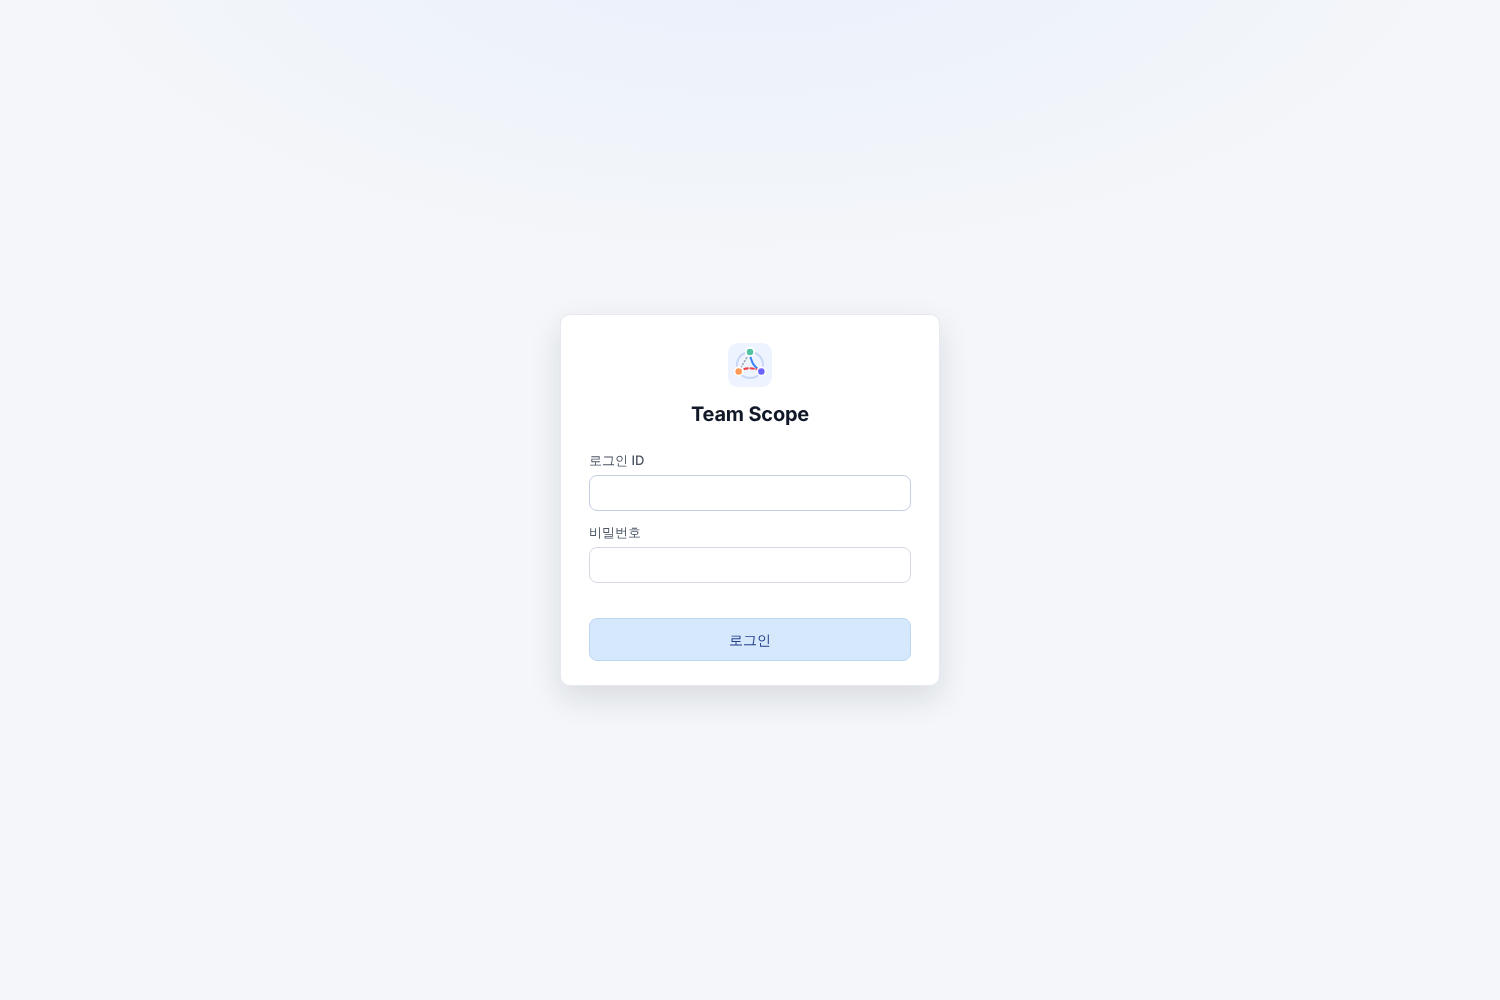
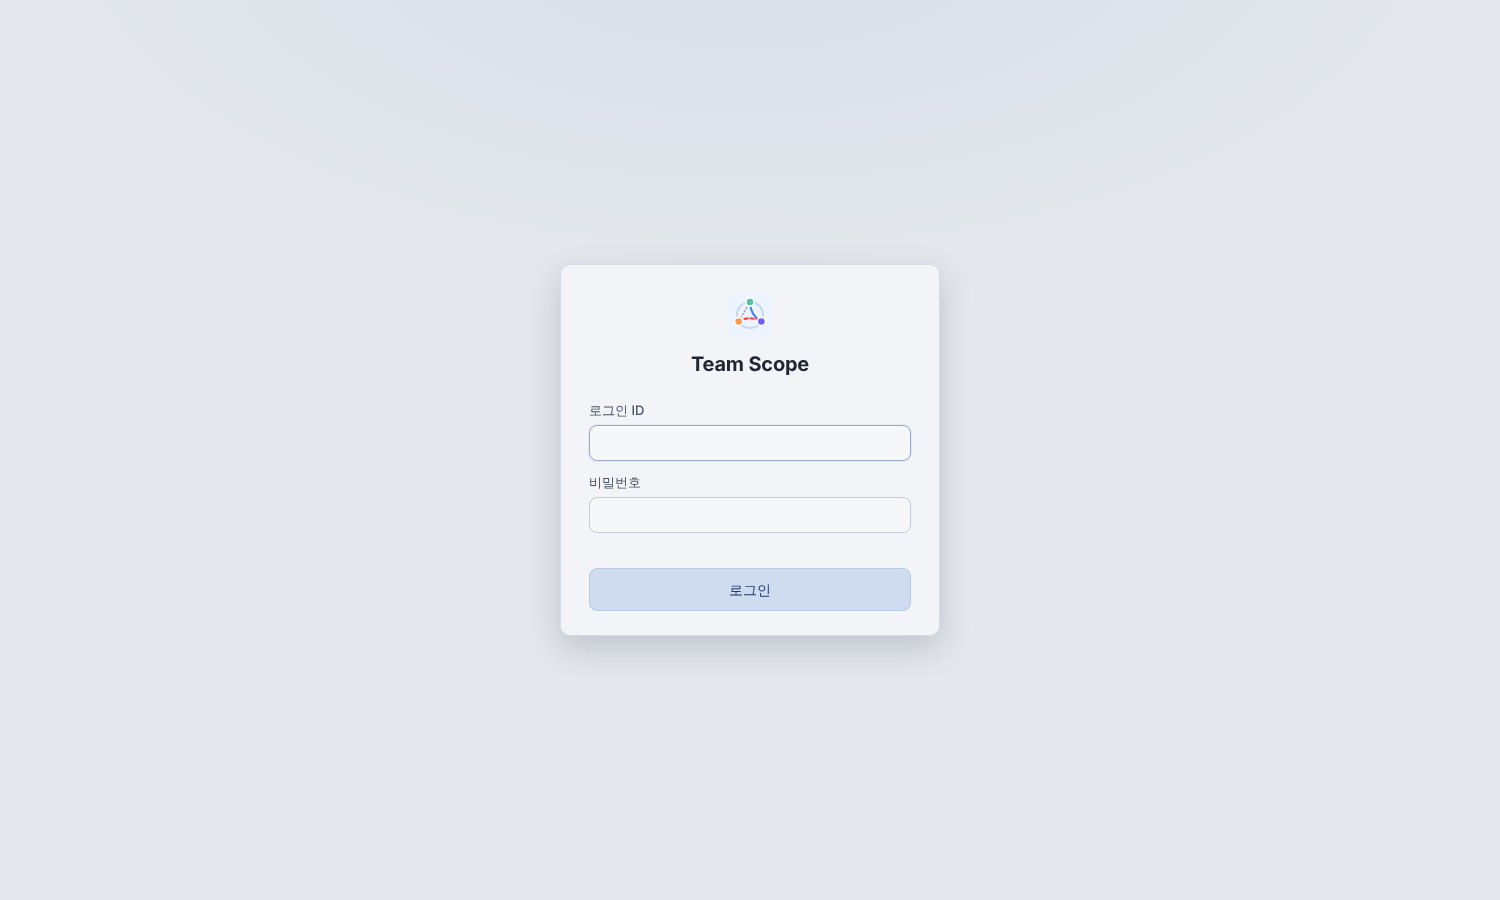
Calm light theme: no pure-white surfaces, dark slate header
- Gray-blue background, off-white cards and inputs instead of #fff, softer
  borders and row lines, muted blue accent and buttons
- Header and tab bar in dark slate with light text to cut glare at the top
- Hardcoded whites replaced by theme tokens; screenshots refreshed

Claude-Session: https://claude.ai/code/session_01DsfKjRFUmAajqSco24Yp3e

diff --git a/public/style.css b/public/style.css
@@ -1,31 +1,42 @@
 /* ==========================================================================
-   Team Scope — 테마
-   중립 회색 바탕 + 흰 카드, 파스텔 액센트, 8/10px 모서리, 옅은 그림자
+   Team Scope — 테마 (차분한 라이트)
+   눈부심을 줄이도록 순백 대신 회청색 계열 표면, 짙은 슬레이트 헤더,
+   채도를 낮춘 파랑 액센트, 낮은 대비의 경계선과 옅은 그림자
    ========================================================================== */
 :root {
-  /* 바탕·표면 */
-  --bg: #f4f6f9;
-  --panel: #ffffff;
-  --surface-2: #f8f9fb;
-  --border: #e6e9ef;
-  --border-strong: #d4d9e2;
+  /* 바탕·표면 (순백을 쓰지 않음) */
+  --bg: #e4e8ed;
+  --panel: #f2f4f7;
+  --surface-2: #e9edf2;
+  --input-bg: #f5f7f9;
+  --row-line: #e1e5eb;
+  --row-hover: #eaeef3;
+  --border: #d6dce4;
+  --border-strong: #c3cbd6;
   /* 글자 */
-  --text: #111827;
-  --text-2: #4b5563;
-  --muted: #8a919e;
+  --text: #1f2733;
+  --text-2: #475263;
+  --muted: #7a8494;
+  /* 헤더·탭 (짙은 슬레이트) */
+  --header-bg: #2a3340;
+  --tabs-bg: #323c4b;
+  --header-text: #e7ebf1;
+  --header-muted: #a3adbd;
+  --header-line: #3d4858;
+  --header-accent: #9db8ec;
   /* 액센트 (포커스·활성 표시) */
-  --accent: #4f7cf0;
-  --accent-soft: #eaf1fe;
-  --accent-ring: rgba(79, 124, 240, .18);
-  /* 버튼 (파스텔) */
-  --primary: #d6e8fb;
-  --primary-border: #bcd7f5;
-  --primary-hover: #c5ddf8;
-  --primary-text: #1e3a8a;
-  --danger: #fde4e4;
-  --danger-border: #f8c8c8;
-  --danger-hover: #fbd3d3;
-  --danger-text: #991b1b;
+  --accent: #4a6db8;
+  --accent-soft: #dde5f2;
+  --accent-ring: rgba(74, 109, 184, .2);
+  /* 버튼 (차분한 파스텔) */
+  --primary: #cfdbee;
+  --primary-border: #b7c8e3;
+  --primary-hover: #c1d1ea;
+  --primary-text: #22396b;
+  --danger: #f3dcdc;
+  --danger-border: #e6c3c3;
+  --danger-hover: #ecd0d0;
+  --danger-text: #8a2323;
   /* 관계 상태 */
   --private: #3B82F6;
   --public: #9CA3AF;
@@ -33,8 +44,8 @@
   /* 기타 */
   --radius: 10px;
   --radius-sm: 8px;
-  --shadow: 0 1px 2px rgba(16, 24, 40, .04), 0 1px 3px rgba(16, 24, 40, .03);
-  --shadow-lg: 0 12px 32px rgba(16, 24, 40, .12);
+  --shadow: 0 1px 2px rgba(23, 31, 43, .05), 0 1px 3px rgba(23, 31, 43, .04);
+  --shadow-lg: 0 12px 32px rgba(23, 31, 43, .18);
   --header-h: 60px;
   --tabs-h: 44px;
 }
@@ -62,7 +73,7 @@ code { font-family: ui-monospace, SFMono-Regular, Menlo, Consolas, monospace; }
 .muted { color: var(--muted); }
 .hint { color: var(--muted); font-size: 12px; margin: 4px 0 10px; line-height: 1.55; }
 .warn { color: #b45309; font-size: 13px; }
-.warn-box { margin: 0; padding: 10px 14px; border-radius: var(--radius-sm); background: #fff8eb; border: 1px solid #fde7bd; color: #92400e; font-size: 13px; }
+.warn-box { margin: 0; padding: 10px 14px; border-radius: var(--radius-sm); background: #f3ead8; border: 1px solid #e6d3ad; color: #92400e; font-size: 13px; }
 .form-error { color: #b91c1c; min-height: 1.2em; font-size: 13px; }
 .sr-only { position: absolute; width: 1px; height: 1px; overflow: hidden; clip: rect(0 0 0 0); white-space: nowrap; }
 .spacer { flex: 1; }
@@ -81,7 +92,7 @@ label { display: flex; flex-direction: column; gap: 5px; margin-bottom: 12px; co
 label.check { flex-direction: row; align-items: center; gap: 8px; font-weight: 400; }
 input, select, textarea {
   font: inherit; color: var(--text);
-  border: 1px solid var(--border-strong); border-radius: var(--radius-sm); padding: 7px 10px; background: #fff;
+  border: 1px solid var(--border-strong); border-radius: var(--radius-sm); padding: 7px 10px; background: var(--input-bg);
   transition: border-color .15s, box-shadow .15s;
 }
 input:hover, select:hover, textarea:hover { border-color: #c2c8d2; }
@@ -94,7 +105,7 @@ button:focus-visible, .select-list li:focus-visible, .tab:focus-visible, .subtab
 }
 
 .btn {
-  font: inherit; font-weight: 500; cursor: pointer; border: 1px solid var(--border-strong); background: #fff; color: var(--text);
+  font: inherit; font-weight: 500; cursor: pointer; border: 1px solid var(--border-strong); background: var(--input-bg); color: var(--text);
   border-radius: var(--radius-sm); padding: 7px 14px; white-space: nowrap;
   display: inline-flex; align-items: center; justify-content: center; transition: background .15s, border-color .15s;
 }
@@ -123,7 +134,7 @@ button:focus-visible, .select-list li:focus-visible, .tab:focus-visible, .subtab
 /* 로그인 등 중앙 화면 */
 .center-view {
   min-height: 100vh; display: flex; align-items: center; justify-content: center; padding: 16px;
-  background: radial-gradient(1200px 600px at 50% -10%, #e8effc 0%, var(--bg) 60%);
+  background: radial-gradient(1200px 600px at 50% -10%, #d5dde9 0%, var(--bg) 60%);
 }
 .auth-card { width: 100%; max-width: 380px; padding: 28px 28px 24px; box-shadow: var(--shadow-lg); }
 .auth-card .app-title { font-size: 20px; text-align: center; margin-bottom: 22px; justify-content: center; }
@@ -136,28 +147,33 @@ button:focus-visible, .select-list li:focus-visible, .tab:focus-visible, .subtab
 /* 헤더·탭 */
 .app-header {
   height: var(--header-h); display: flex; align-items: center; justify-content: space-between; gap: 12px;
-  padding: 0 max(6vw, 16px); background: var(--panel); border-bottom: 1px solid var(--border);
-  position: relative; z-index: 2;
+  padding: 0 max(6vw, 16px); background: var(--header-bg); border-bottom: 1px solid var(--header-line);
+  position: relative; z-index: 2; color: var(--header-text);
 }
 .header-left, .header-right { display: flex; align-items: center; gap: 10px; min-width: 0; }
 .app-title { display: flex; align-items: center; gap: 8px; }
-.app-header .app-title { font-size: 16px; font-weight: 700; margin: 0; white-space: nowrap; }
+.app-header .app-title { font-size: 16px; font-weight: 700; margin: 0; white-space: nowrap; color: var(--header-text); }
+.app-header .app-version { color: var(--header-muted); }
+.app-header select { background-color: #3a4556; color: var(--header-text); border-color: #4a5668; }
+.app-header select:hover { border-color: #5b6880; }
+.app-header .btn-ghost { color: var(--header-muted); }
+.app-header .btn-ghost:hover:not(:disabled) { background: #36414f; border-color: #46526366; color: var(--header-text); }
 .brand-icon { display: block; }
 .app-version { font-size: 11px; font-weight: 500; color: var(--muted); margin-left: 2px; align-self: flex-end; padding-bottom: 2px; }
 #team-select { font-weight: 600; min-width: 140px; }
-.team-fixed { font-weight: 600; color: var(--text-2); padding: 4px 10px; background: var(--surface-2); border: 1px solid var(--border); border-radius: 999px; }
-.user-label { color: var(--text-2); white-space: nowrap; font-size: 13px; padding-right: 4px; }
-.save-status { font-size: 12px; color: var(--muted); }
-.save-status.error { color: #b91c1c; }
+.team-fixed { font-weight: 600; color: var(--header-text); padding: 4px 10px; background: #3a4556; border: 1px solid #4a5668; border-radius: 999px; }
+.user-label { color: var(--header-muted); white-space: nowrap; font-size: 13px; padding-right: 4px; }
+.save-status { font-size: 12px; color: var(--header-muted); }
+.save-status.error { color: #f3a5a5; }
 
-.tabs { height: var(--tabs-h); display: flex; gap: 2px; padding: 0 max(6vw, 16px); border-bottom: 1px solid var(--border); background: var(--panel); }
+.tabs { height: var(--tabs-h); display: flex; gap: 2px; padding: 0 max(6vw, 16px); border-bottom: 1px solid var(--header-line); background: var(--tabs-bg); }
 .tab {
-  font: inherit; font-weight: 500; border: 0; background: none; padding: 0 14px; cursor: pointer; color: var(--muted);
+  font: inherit; font-weight: 500; border: 0; background: none; padding: 0 14px; cursor: pointer; color: var(--header-muted);
   border-bottom: 2px solid transparent; margin-bottom: -1px; display: inline-flex; align-items: center;
 }
-.tab:hover { color: var(--text-2); }
-.tab.active { color: var(--text); border-bottom-color: var(--accent); font-weight: 650; }
-.tab.active .icon { color: var(--accent); }
+.tab:hover { color: var(--header-text); }
+.tab.active { color: var(--header-text); border-bottom-color: var(--header-accent); font-weight: 650; }
+.tab.active .icon { color: var(--header-accent); }
 
 .container { width: 88%; max-width: 1600px; margin: 16px auto; }
 
@@ -258,7 +274,7 @@ button:focus-visible, .select-list li:focus-visible, .tab:focus-visible, .subtab
 #panel-my-relations .select-list { margin-bottom: 0; }
 
 .select-list { list-style: none; margin: 0 0 8px; padding: 0; overflow: auto; flex: 1; min-height: 60px; border: 1px solid var(--border); border-radius: var(--radius-sm); }
-.select-list li { display: flex; align-items: center; gap: 8px; padding: 7px 10px; border-bottom: 1px solid #f1f3f6; cursor: pointer; }
+.select-list li { display: flex; align-items: center; gap: 8px; padding: 7px 10px; border-bottom: 1px solid var(--row-line); cursor: pointer; }
 .select-list li:last-child { border-bottom: 0; }
 .select-list li:hover { background: var(--surface-2); }
 .select-list li.selected { background: var(--accent-soft); }
@@ -316,19 +332,19 @@ button:focus-visible, .select-list li:focus-visible, .tab:focus-visible, .subtab
 .scroll-x { overflow-x: auto; }
 
 .table { width: 100%; border-collapse: separate; border-spacing: 0; font-size: 13px; }
-.table th, .table td { text-align: left; padding: 8px 10px; border-bottom: 1px solid #f0f2f5; vertical-align: middle; }
+.table th, .table td { text-align: left; padding: 8px 10px; border-bottom: 1px solid var(--row-line); vertical-align: middle; }
 .table th { position: sticky; top: 0; background: var(--surface-2); color: var(--muted); font-weight: 600; font-size: 12px; z-index: 1; border-bottom: 1px solid var(--border); }
 .table th:first-child { border-top-left-radius: var(--radius-sm); }
 .table th:last-child { border-top-right-radius: var(--radius-sm); }
 .table.selectable tbody tr { cursor: pointer; }
-.table tbody tr:hover { background: #fafbfc; }
+.table tbody tr:hover { background: var(--row-hover); }
 .table tbody tr.selected { background: var(--accent-soft); }
 .table .col-check { width: 36px; }
 .table .col-actions { text-align: right; }
 .inline-select { padding: 3px 26px 3px 8px; font-size: 13px; min-width: 110px; background-color: transparent; border-color: transparent; }
-.inline-select:hover { border-color: var(--border-strong); background-color: #fff; }
+.inline-select:hover { border-color: var(--border-strong); background-color: var(--input-bg); }
 .table td.empty { text-align: center; color: var(--muted); padding: 24px; }
-.acc-badge { font-size: 12px; padding: 1px 8px; border-radius: 999px; background: #f1f3f6; color: var(--text-2); white-space: nowrap; }
+.acc-badge { font-size: 12px; padding: 1px 8px; border-radius: 999px; background: var(--surface-2); color: var(--text-2); white-space: nowrap; }
 .acc-badge.active { background: #dcfce7; color: #166534; }
 .acc-badge.inactive { background: #fee2e2; color: #991b1b; }
 .acc-badge.locked { background: #fef3c7; color: #92400e; }
@@ -349,7 +365,7 @@ button:focus-visible, .select-list li:focus-visible, .tab:focus-visible, .subtab
 .trend-picker { display: flex; flex-wrap: wrap; align-items: center; gap: 8px; margin-bottom: 8px; }
 .trend-picker select { min-width: 220px; }
 .chips { display: flex; flex-wrap: wrap; gap: 6px; }
-.chip { display: inline-flex; align-items: center; gap: 6px; padding: 3px 4px 3px 10px; border: 1px solid var(--border); border-radius: 999px; font-size: 13px; background: #fff; }
+.chip { display: inline-flex; align-items: center; gap: 6px; padding: 3px 4px 3px 10px; border: 1px solid var(--border); border-radius: 999px; font-size: 13px; background: var(--input-bg); }
 .chip-x { border: 0; background: none; cursor: pointer; color: var(--muted); padding: 2px; display: inline-flex; border-radius: 50%; }
 .chip-x:hover { background: var(--surface-2); color: var(--text); }
 .chip-x .icon { width: 14px; height: 14px; }
@@ -357,11 +373,11 @@ button:focus-visible, .select-list li:focus-visible, .tab:focus-visible, .subtab
 .trend-legend { display: flex; flex-wrap: wrap; gap: 6px 16px; margin: 4px 0 6px; }
 .trend-chart { width: 100%; min-height: 300px; }
 .trend-chart svg { display: block; }
-.trend-chart .grid line { stroke: #eef0f3; stroke-width: 1px; }
+.trend-chart .grid line { stroke: #dde2e8; stroke-width: 1px; }
 .trend-chart .grid line.zero { stroke: #c9ced6; }
 .trend-chart .axis text { fill: var(--muted); font-size: 11px; }
 .trend-chart .trend-line { fill: none; stroke-width: 2px; stroke-linejoin: round; stroke-linecap: round; }
-.trend-chart .trend-end { stroke: #fff; stroke-width: 2px; }
+.trend-chart .trend-end { stroke: var(--panel); stroke-width: 2px; }
 .trend-chart .direct-label { fill: var(--text-2); font-size: 12px; }
 .trend-chart .crosshair { stroke: #b8bfca; stroke-width: 1px; }
 .trend-chart .hover-area { fill: transparent; }

diff --git a/CHANGELOG.md b/CHANGELOG.md
@@ -12,6 +12,7 @@
 - 관계 관리(관리자 탭, 관계도 화면 카드)에 상태 필터 추가
 
 ### 변경
+- 테마를 눈부심이 적은 차분한 라이트로 변경: 순백 대신 회청색 계열 바탕·카드·입력칸, 짙은 슬레이트 헤더·탭, 채도를 낮춘 파랑 강조색과 버튼
 - 부서 색상을 파스텔 16색으로 변경 (이웃한 색끼리 잘 구분되도록 순서 배치, 관계도 노드에 같은 계열의 진한 테두리).
   1.0.0의 10색을 쓰던 부서와 예전에 내보낸 팀 파일은 새 색상표에서 겹치지 않는 색으로 자동 재배정
 - 부서 부서 추가·부서 수정 카드, 부서원 관리 탭의 부서원 추가·선택한 부서원·일괄 등록 카드 높이 통일
